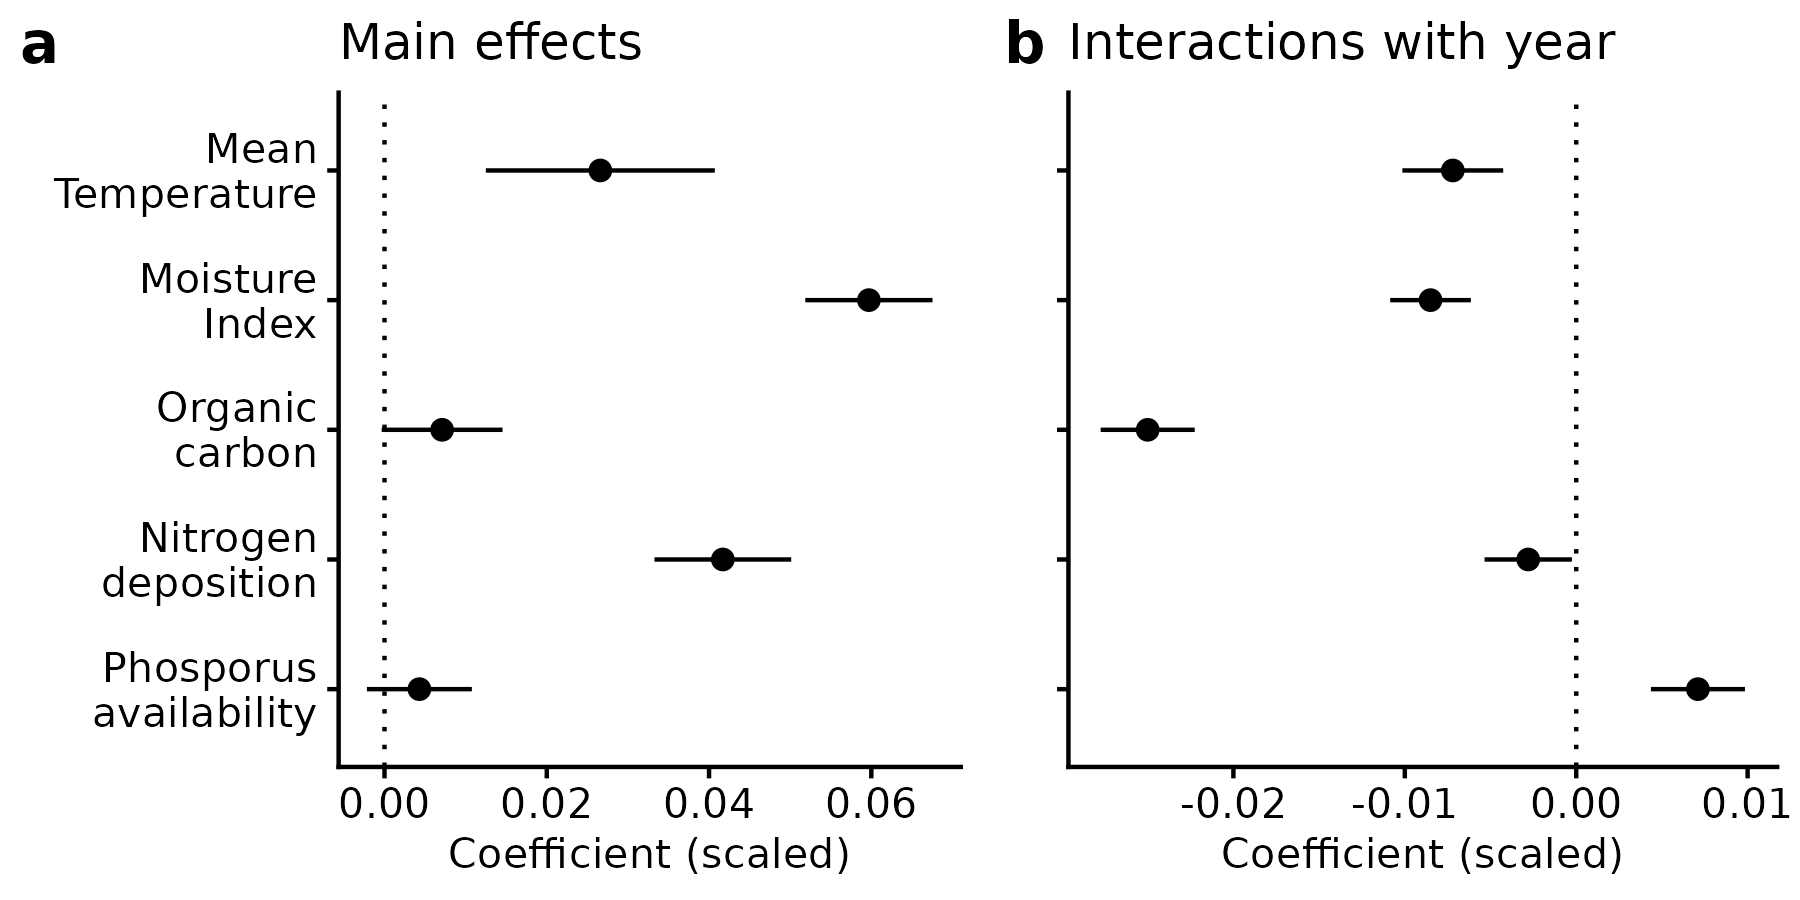
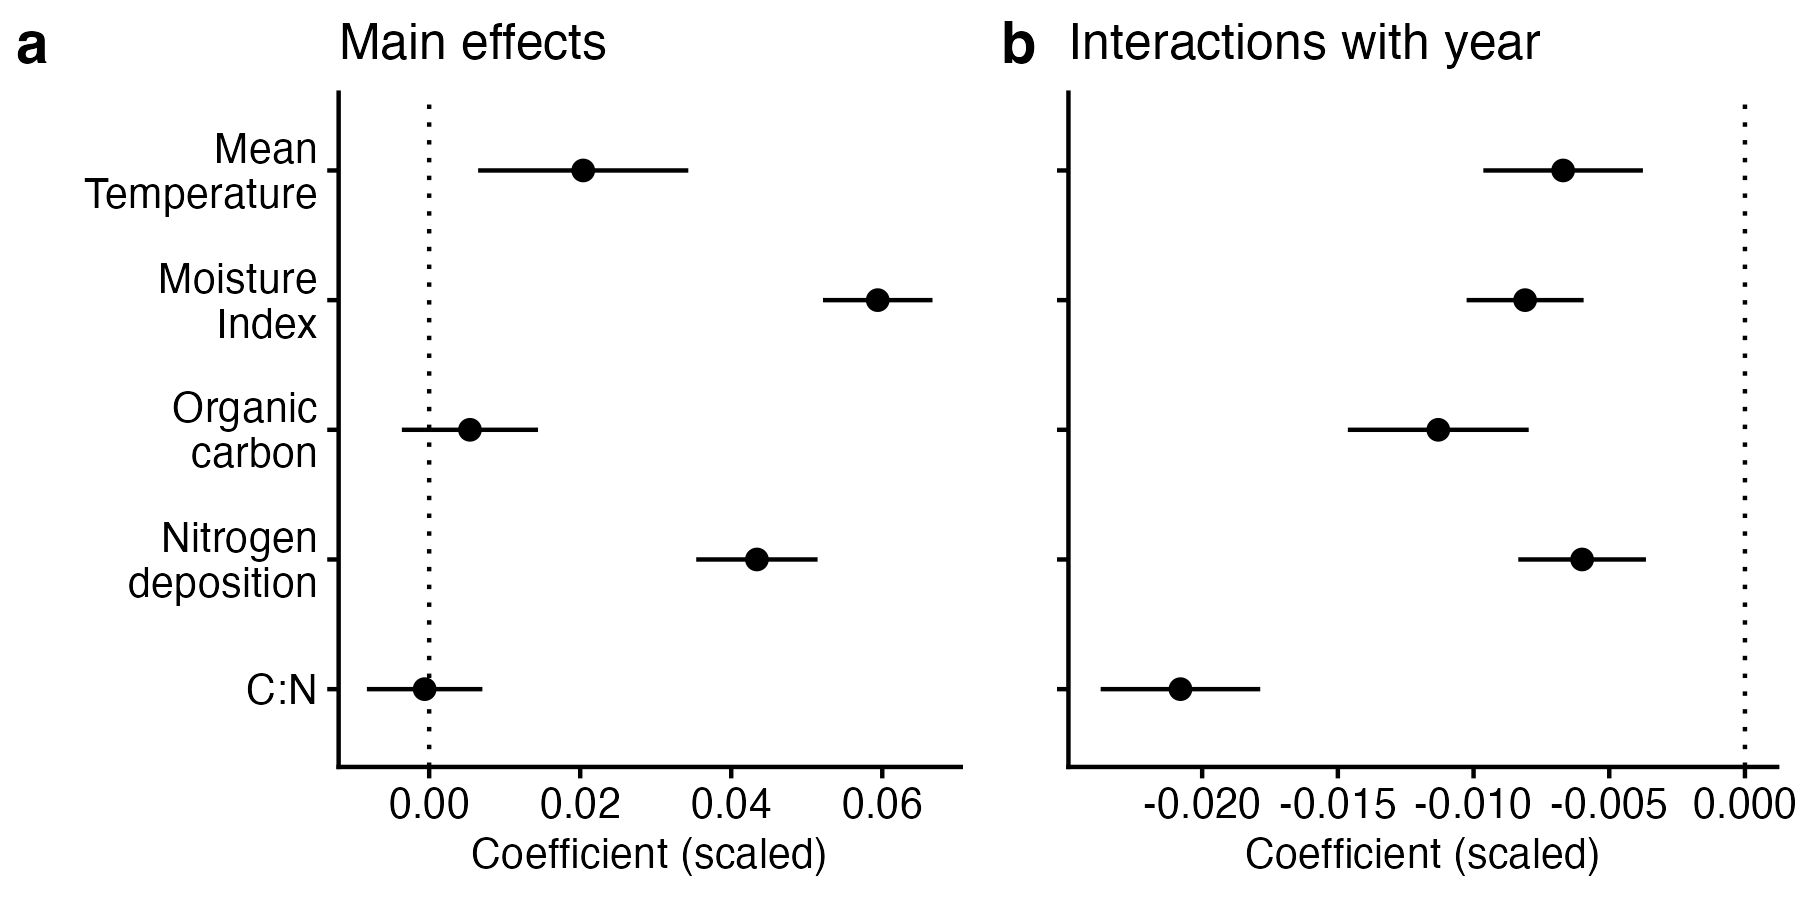
added model selection for environmental model

diff --git a/manuscript/tables/mods_env.tex b/manuscript/tables/mods_env.tex
@@ -1,0 +1,52 @@
+\begin{table}
+\centering
+\begin{talltblr}[         %% tabularray outer open
+caption={Regression Results},
+]                     %% tabularray outer close
+{                     %% tabularray inner open
+colspec={Q[]Q[]Q[]Q[]Q[]},
+column{2,3,4,5}={}{halign=c,},
+column{1}={}{halign=l,},
+hline{31}={1,2,3,4,5}{solid, black, 0.05em},
+}                     %% tabularray inner close
+\toprule
+& Complete & No PBR & No PBR, ORGC & No PBR, C:N \\ \midrule %% TinyTableHeader
+scale(logQMD) & -0.646*** & -0.645*** & -0.645*** & -0.645*** \\
+& (0.002) & (0.002) & (0.002) & (0.002) \\
+scale(year) & 0.064*** & 0.064*** & 0.065*** & 0.065*** \\
+& (0.001) & (0.001) & (0.001) & (0.001) \\
+scale(tavg) & 0.025*** & 0.020** & 0.018* & 0.022** \\
+& (0.007) & (0.007) & (0.007) & (0.007) \\
+scale(ai) & 0.060*** & 0.059*** & 0.059*** & 0.059*** \\
+& (0.004) & (0.004) & (0.004) & (0.004) \\
+scale(ndep) & 0.042*** & 0.043*** & 0.043*** & 0.042*** \\
+& (0.004) & (0.004) & (0.004) & (0.004) \\
+scale(ORGC) & 0.007 & 0.005 &  & 0.006 \\
+& (0.005) & (0.005) &  & (0.004) \\
+scale(PBR) & 0.004 &  &  &  \\
+& (0.003) &  &  &  \\
+scale(CNrt) & -0.001 & -0.001 & 0.002 &  \\
+& (0.004) & (0.004) & (0.003) &  \\
+scale(year) × scale(tavg) & -0.007*** & -0.007*** & -0.004* & -0.007*** \\
+& (0.002) & (0.001) & (0.001) & (0.001) \\
+scale(year) × scale(ai) & -0.009*** & -0.008*** & -0.008*** & -0.007*** \\
+& (0.001) & (0.001) & (0.001) & (0.001) \\
+scale(year) × scale(ndep) & -0.005*** & -0.006*** & -0.006*** & -0.002 \\
+& (0.001) & (0.001) & (0.001) & (0.001) \\
+scale(year) × scale(ORGC) & -0.012*** & -0.011*** &  & -0.026*** \\
+& (0.002) & (0.002) &  & (0.001) \\
+scale(year) × scale(PBR) & 0.003+ &  &  &  \\
+& (0.001) &  &  &  \\
+scale(year) × scale(CNrt) & -0.019*** & -0.021*** & -0.027*** &  \\
+& (0.002) & (0.001) & (0.001) &  \\
+SD (Observations) & 0.109 & 0.110 & 0.110 & 0.111 \\
+Num.Obs. & 22566 & 23570 & 23570 & 23570 \\
+R2 Marg. & 0.728 & 0.712 & 0.710 & 0.711 \\
+R2 Cond. & 0.979 & 0.980 & 0.979 & 0.979 \\
+AIC & -13634.4 & -13910.0 & -13889.1 & -13732.0 \\
+BIC & -13490.0 & -13780.9 & -13776.1 & -13619.0 \\
+ICC & 0.9 & 0.9 & 0.9 & 0.9 \\
+RMSE & 0.09 & 0.09 & 0.09 & 0.09 \\
+\bottomrule
+\end{talltblr}
+\end{table}

diff --git a/manuscript/si/main.tex b/manuscript/si/main.tex
@@ -1,5 +1,11 @@
 \documentclass{myreport}
 
+\usepackage{tabularray}
+\usepackage{float}
+\usepackage{graphicx}
+\usepackage{codehigh}
+\usepackage[normalem]{ulem}
+
 % References
 \bibliographystyle{copernicus.bst}
 
@@ -28,6 +34,7 @@ Global forest thickening}
 \section{Self-thinning trends}
 
 \begin{table}
+  % \label{tab:datasets}
 \centering
 \begin{tabular}{lllll}
   \toprule
@@ -67,16 +74,17 @@ Dataset & N & Description & Filter & Reference \\
   urk &  12 &  &  & \\
   nbw &   7 &  &  & \\
   \bottomrule
-  \label{tab:datasets}
   \end{tabular}
 \caption{Constituent forest dataset sizes and descriptions.}
 \end{table}
 
-\begin{figure}[h]
+\begin{figure}
 \centering
-\includegraphics[width=\textwidth]{../figures/fig_hist_year.pdf}
-\caption{Distribution of forest census data over time, grouped by biome (a-f). Dataset names are explained in Tab. \ref{tab:datasets}.}
+\includegraphics[width=0.9\textwidth]{../figures/fig_hist_year.pdf}
+\caption{Distribution of forest census data over time, grouped by biome (a-f). Dataset names are explained in Tab. xxxx.}
 \end{figure}
+
+\clearpage
 
 % Example for how to include a table, generated externally
 % Uses library xtable.
@@ -124,18 +132,24 @@ Biome & Mean & SE \\
 \end{table}
 
 
-\begin{figure}[h]
+\begin{figure}
 \centering
 \includegraphics[width=\textwidth]{../figures/hist_percent_change.pdf}
 \caption{Distribution of percentage change (\%/yr) in stand density (number of trees per ha) by biome.}
 \end{figure}
 
 
-\begin{figure}[h]
+\begin{figure}
 \centering
 \includegraphics[width=\textwidth]{../figures/fdisturbed.pdf}
 \caption{Trends in the fraction of disturbed forest plots, by biome. Fraction values are logit-transformed. The corresponding un-transformed values are indicated by the right y-axis in each plot. No regression fit is shown for tropical dry broadleaf forests (b) as only two points are available with non-zero values for the disturbed fraction.}
 \end{figure}
+
+\clearpage
+
+\section{Environmental drivers}
+
+\input{../tables/mods_env.tex}
 
 %%%%%%%%%%%%%%%%%%%%%%%%%%%%%%%%%%%%%%%%%%%%%%%%%%%%%%%%%%%%%%%%%%%%%%%%%%%
 \clearpage

diff --git a/manuscript/tables/datasets.tex b/manuscript/tables/datasets.tex
@@ -1,0 +1,44 @@
+% latex table generated in R 4.5.0 by xtable 1.8-4 package
+% Thu Nov 27 12:12:22 2025
+\begin{table}[ht]
+\centering
+\begin{tabular}{lllll}
+  \hline
+Dataset & N & Description & Filter & Reference \\ 
+  \hline
+nfi\_spain & 27642 &  &  & \\ 
+  nfi\_norway & 25156 &  &  & \\ 
+  nfi\_sweeden & 15954 &  &  & \\ 
+  bnp & 9423 &  &  & \\ 
+  fia\_us & 7022 &  &  & \\ 
+  aus\_plots & 6259 &  &  & \\ 
+  luquillo & 1993 &  &  & \\ 
+  nfi\_switzerland & 1972 &  &  & \\ 
+  scbi & 1572 &  &  & \\ 
+  wuls & 1416 &  &  & \\ 
+  wytham & 1200 &  &  & \\ 
+  serc & 1026 &  &  & \\ 
+  pasoh & 1007 &  &  & \\ 
+  df\_rainfor & 988 &  &  & \\ 
+  nfr\_swi & 729 &  &  & \\ 
+  forst & 537 &  &  & \\ 
+  palanam & 484 &  &  & \\ 
+  unito & 311 &  &  & \\ 
+  uholka & 200 &  &  & \\ 
+  df\_forestplots & 149 &  &  & \\ 
+  mudumalai & 126 &  &  & \\ 
+  lwf\_tree & 114 &  &  & \\ 
+  nwfva\_tree &  84 &  &  & \\ 
+  incds &  75 &  &  & \\ 
+  tuzvo\_tree &  63 &  &  & \\ 
+  iberbas &  57 &  &  & \\ 
+  efm\_swi &  51 &  &  & \\ 
+  france &  47 &  &  & \\ 
+  greece\_stand &  40 &  &  & \\ 
+  czu &  24 &  &  & \\ 
+  ul\_tree &  23 &  &  & \\ 
+  urk &  12 &  &  & \\ 
+  nbw &   7 &  &  & \\ 
+  \end{tabular}
+\caption{Constituent forest datasets, data volumes, descriptions, applied filters for this study, and references.} 
+\end{table}
